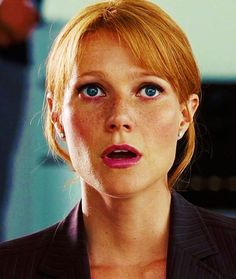
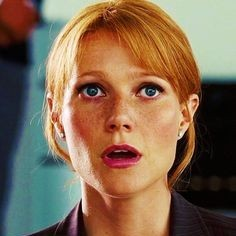
resized pics, id in contacts.html replaced by class

diff --git a/templates/contacts.html b/templates/contacts.html
@@ -42,7 +42,7 @@
           <tr>
           <th>
            <h2> Director</h2>
-          <p><img id="director" alt = "director" src ="../static/images/director.jpg"/></br>
+          <p><img class = "con-info" alt = "director" src ="../static/images/director.jpg"/></br>
             Name: Nickolas Fury </br>
             Skype: nick_fury </br>
             Email: director@shield.ru </br>
@@ -50,7 +50,7 @@
           </p></th>
           <th>
           <h2> Manager</h2>
-          <p><img id="manager" alt = "manager" src ="../static/images/manager.jpg"/></br>
+          <p><img class = "con-info"alt = "manager" src ="../static/images/manager.jpg"/></br>
           Name: Pepper Potts </br>
             Skype: ppots </br>
             Email: rescue@stark.com </br>
@@ -59,7 +59,7 @@
           
           <th>
           <h2> Manager</h2>
-          <p><img id="founder" alt = "founder" src ="../static/images/founder.jpg"/></br>
+          <p><img class = "con-info" alt = "founder" src ="../static/images/founder.jpg"/></br>
           Name: Tonny Stark </br>
             Skype: ironman14 </br>
             Email: iam@ironman.ru </br>

diff --git a/static/css/bootstrap.css b/static/css/bootstrap.css
@@ -7,14 +7,8 @@
 #brico {
     width: 50px;
   }
-#director {
+.con-info{
   width:200px; height: 200px; border-radius: 10px; margin: 2px 2px 2px 2px;
-}
-#manager {
-  width:200px; height: 200px; border-radius: 10px; margin: 2px 2px 2px 2px;
-}
-#founder {
-  width:200px; height:200px; border-radius: 10px; margin: 2px 2px 2px 2px;
 }
 .contacts{
   margin: auto;
